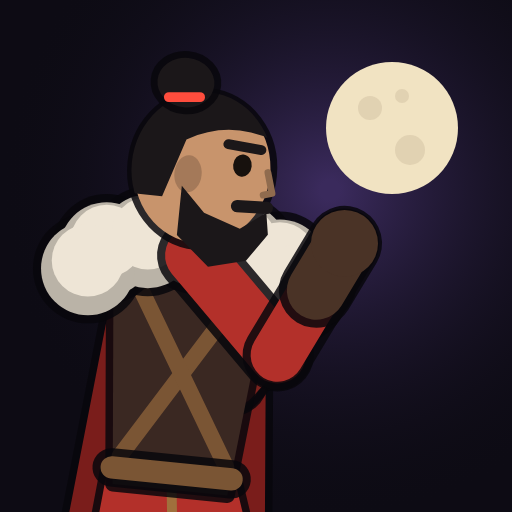
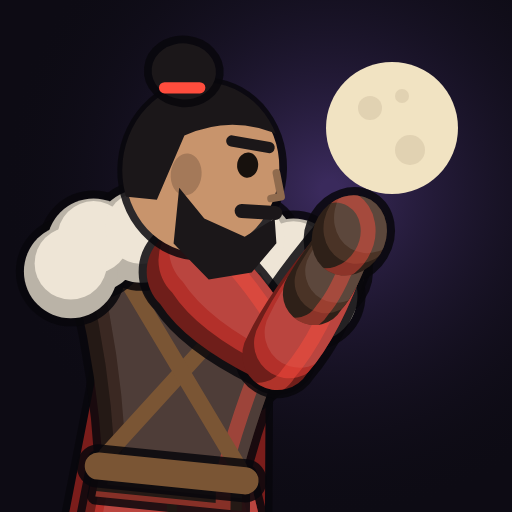
Full illustrated bodies for all fighters
Claude-Session: https://claude.ai/code/session_01UNaMSpEniWJFSZxagqqqPB

Changed region(s): [[0.0312, 0.1562, 0.7812, 1.0], [0.3125, 0.1562, 0.4062, 0.2188]]

diff --git a/index.html b/index.html
@@ -617,7 +617,7 @@ function resolveC(h,cols){
 function lookColor(f){const L=LOOKS[f.def.name]||{};return L.coat||L.hood||L.armor||L.top||L.rock||'#cccccc';}
 function drawHead(c,J,L,C,accent,facing,t,mono,OUT){
  const h=J.head,ux=(h.x-J.neck.x)/HO,uy=(h.y-J.neck.y)/HO,fx=-uy*facing,fy=ux*facing;
- c.save();c.transform(fx,fy,-ux,-uy,h.x,h.y);const sc=(L.bulk||1)>1.3?1.12:1;c.scale(sc,sc);
+ c.save();c.transform(fx,fy,-ux,-uy,h.x,h.y);const sc=(L.bulk||1)>1.3?1.25:1.13;c.scale(sc,sc);
  const E=(x,y,rx,ry,col,o)=>{c.beginPath();c.ellipse(x,y,rx,ry,0,0,7);if(o&&OUT){c.strokeStyle=OUT;c.lineWidth=2.2;c.stroke();}c.fillStyle=col;c.fill();};
  const poly=(pts,col,o)=>{c.beginPath();pts.forEach((q,i)=>i?c.lineTo(q[0],q[1]):c.moveTo(q[0],q[1]));c.closePath();if(o&&OUT){c.strokeStyle=OUT;c.lineWidth=2;c.stroke();}c.fillStyle=col;c.fill();};
  const glowEye=(x,y,r)=>{if(!mono){c.save();c.globalAlpha*=.45;E(x,y,r*2.6,r*2.6,accent);c.restore();}E(x,y,r,r*.8,mono?accent:'#ffffff');c.save();c.globalAlpha*=.85;E(x,y,r*1.2,r,accent);c.restore();};
@@ -707,10 +707,32 @@ function drawStick(c,J,cols,accent,key,facing,alpha,t,speed){
  const fillP=(pts,col,o)=>{path(pts);if(o&&OUT){c.strokeStyle=OUT;c.lineWidth=2.4;c.stroke();}c.fillStyle=col;c.fill();};
  const seg=(a,bb,w,col)=>{if(OUT){c.strokeStyle=OUT;c.lineWidth=w+2.6;line(c,a,bb);}c.strokeStyle=col;c.lineWidth=w;line(c,a,bb);};
  const footY=Math.max(J.ffoot.y,J.bfoot.y);
+ const LX=facing*1.9,LY=-1.9,RIM=!mono&&cols.v!=='shadow';
+ const shade=(build,col,o,rim)=>{build();if(o&&OUT){c.strokeStyle=OUT;c.lineWidth=2.6;c.stroke();}
+  if(mono){c.fillStyle=col;c.fill();return;}
+  c.fillStyle=shadeC(col,.62);c.fill();c.save();build();c.clip();c.translate(LX,LY);build();c.fillStyle=col;c.fill();
+  c.translate(LX*.9,LY*.9);build();c.globalAlpha*=.1;c.fillStyle='#ffffff';c.fill();c.restore();
+  if(rim&&RIM){c.save();build();c.clip();c.translate(-LX*1.6,0);build();c.globalAlpha*=.45;c.strokeStyle=accent;c.lineWidth=2.4;c.stroke();c.restore();}};
+ const limbPath=(a,bb,wa,wb,bul)=>()=>{const ddx=bb.x-a.x,ddy=bb.y-a.y,l=Math.hypot(ddx,ddy)||1,ux=ddx/l,uy=ddy/l,nx=-uy,ny=ux,ra=wa/2,rb=wb/2,rm=Math.max(ra,rb)*bul,m={x:a.x+ddx*.38,y:a.y+ddy*.38},ang=Math.atan2(uy,ux);
+  c.beginPath();c.moveTo(a.x+nx*ra,a.y+ny*ra);c.quadraticCurveTo(m.x+nx*rm*1.08,m.y+ny*rm*1.08,bb.x+nx*rb,bb.y+ny*rb);c.arc(bb.x,bb.y,rb,ang+Math.PI/2,ang-Math.PI/2,true);
+  c.quadraticCurveTo(m.x-nx*rm*.98,m.y-ny*rm*.98,a.x-nx*ra,a.y-ny*ra);c.arc(a.x,a.y,ra,ang-Math.PI/2,ang+Math.PI/2,true);c.closePath();};
+ const limb=(a,bb,wa,wb,col,bul,rim)=>shade(limbPath(a,bb,wa,wb,bul||1.12),col,1,rim);
+ const blob=(q,rx,ry,col,rot,rim)=>shade(()=>{c.beginPath();c.ellipse(q.x,q.y,rx,ry,rot||0,0,7);},col,1,rim);
+ const ol=p=>{if(!OUT)return;p();c.strokeStyle=OUT;c.lineWidth=2.6;c.stroke();};
+ const fistP=(e,h)=>{const ddx=h.x-e.x,ddy=h.y-e.y,l=Math.hypot(ddx,ddy)||1,q={x:h.x+ddx/l*1.5,y:h.y+ddy/l*1.5},r=Math.atan2(ddy,ddx);return()=>{c.beginPath();c.ellipse(q.x,q.y,6.2*b,5.4*b,r,0,7);};};
+ const footP=f=>()=>{c.beginPath();c.moveTo(f.x-facing*4.5*b,f.y-4*b);c.lineTo(f.x+facing*5*b,f.y-4.5*b);c.quadraticCurveTo(f.x+facing*11*b,f.y-3*b,f.x+facing*11*b,f.y+2.5);c.lineTo(f.x-facing*5*b,f.y+2.5);c.closePath();};
+ const arm=(e,h,sl,gl,rim)=>{const U=limbPath(T(.93,0),e,13.5*b,9.5*b,1.14),F=limbPath(e,h,10.5*b,8*b,1.16),Gv=limbPath(lerpP(e,h,.55),h,9.4*b,8.4*b,1.04),Fi=fistP(e,h);
+  ol(U);ol(F);ol(Fi);shade(U,sl,0,rim);shade(F,sl,0,rim);if(gl!==sl)shade(Gv,gl,0,rim);shade(Fi,gl,0,rim);
+  if(L.sleeve==='skin'&&!mono){const q=lerpP(T(.93,0),e,.5);c.strokeStyle=shadeC(C('skin'),.66);c.lineWidth=1.1;c.beginPath();c.arc(q.x,q.y,3*b,0,3);c.stroke();}};
+ const leg=(k,f,pa,bo,rim)=>{const Th=limbPath(Hp,k,16*b,11.5*b,1.12),Sh=limbPath(k,f,12*b,8.5*b,1.2),Bt=limbPath(lerpP(k,f,.5),f,11*b,9*b,1.02),Ft=footP(f);
+  ol(Th);ol(Sh);ol(Bt);ol(Ft);shade(Th,pa,0,rim);shade(Sh,pa,0,rim);shade(Bt,bo,0,rim);shade(Ft,bo,0,rim);};
+ const torsoPath=()=>{const P1=[T(1.02,8*b),T(1.0,16*b),T(.78,16.5*b),T(.45,12.5*b),T(.1,10.5*b),T(-.06,11*b),T(-.06,-11*b),T(.1,-10.5*b),T(.45,-12.5*b),T(.78,-16.5*b),T(1.0,-16*b),T(1.02,-8*b),T(1.12,-5*b),T(1.12,5*b)];
+  c.beginPath();c.moveTo(P1[0].x,P1[0].y);c.quadraticCurveTo(P1[1].x,P1[1].y,P1[2].x,P1[2].y);c.quadraticCurveTo(P1[3].x,P1[3].y,P1[4].x,P1[4].y);c.lineTo(P1[5].x,P1[5].y);c.lineTo(P1[6].x,P1[6].y);c.lineTo(P1[7].x,P1[7].y);
+  c.quadraticCurveTo(P1[8].x,P1[8].y,P1[9].x,P1[9].y);c.quadraticCurveTo(P1[10].x,P1[10].y,P1[11].x,P1[11].y);c.quadraticCurveTo(P1[12].x,P1[12].y,P1[13].x,P1[13].y);c.closePath();};
  let s1=T(.98,11*b),s2=T(.98,-11*b);if((s1.x-s2.x)*facing<0)[s1,s2]=[s2,s1];
  if(L.rock){
   const rk=C('rock'),rd=C('rockD');
-  const R2=(a,bb,w)=>{seg(a,bb,w,rd);c.strokeStyle=rk;c.lineWidth=w*.7;line(c,a,bb);if(!mono){c.save();c.globalAlpha*=.85;c.strokeStyle=accent;c.lineWidth=1.5;const p1=lerpP(a,bb,.25),p2=lerpP(a,bb,.5),p3=lerpP(a,bb,.78);c.beginPath();c.moveTo(p1.x,p1.y);c.lineTo(p2.x+3,p2.y-2);c.lineTo(p3.x-2,p3.y+1);c.stroke();c.restore();}};
+  const R2=(a,bb,w)=>{limb(a,bb,w*1.15,w,rk,1.15,1);if(!mono){c.save();c.globalAlpha*=.85;c.strokeStyle=accent;c.lineWidth=1.5;const p1=lerpP(a,bb,.25),p2=lerpP(a,bb,.5),p3=lerpP(a,bb,.78);c.beginPath();c.moveTo(p1.x,p1.y);c.lineTo(p2.x+3,p2.y-2);c.lineTo(p3.x-2,p3.y+1);c.stroke();c.restore();}};
   R2(N,J.belb,15);R2(J.belb,J.bhand,14);dot(c,J.bhand,9,rd);
   R2(Hp,J.bknee,16);R2(J.bknee,J.bfoot,15);
   R2(Hp,J.fknee,16);R2(J.fknee,J.ffoot,15);
@@ -726,34 +748,33 @@ function drawStick(c,J,cols,accent,key,facing,alpha,t,speed){
   const pts=[s1,s2,{x:s2.x+back*(16+sp*1.4)+w2,y:by}];
   if(L.torn)for(let i=1;i<5;i++){const q=lerpP({x:s2.x+back*(16+sp*1.4)+w2,y:by},{x:s1.x+back*(2+sp*.4)+w1,y:by+4},i/5);pts.push({x:q.x,y:q.y-(i%2?8:0)});}
   pts.push({x:s1.x+back*(2+sp*.4)+w1*.5,y:by+4});fillP(pts,C('cape'),1);}
- seg(N,J.belb,8.5*b,Dk('sleeve'));seg(J.belb,J.bhand,8*b,Dk('sleeve'));seg(lerpP(J.belb,J.bhand,.6),J.bhand,8.6*b,Dk('glove'));dot(c,J.bhand,4.8*b,Dk('glove'));
- seg(Hp,J.bknee,10*b,Dk('pants'));seg(J.bknee,J.bfoot,9*b,Dk('pants'));seg(lerpP(J.bknee,J.bfoot,.52),J.bfoot,10*b,Dk('boot'));dot(c,J.bfoot,5.4*b,Dk('boot'));
- seg(Hp,J.fknee,10.5*b,C('pants'));seg(J.fknee,J.ffoot,9.5*b,C('pants'));seg(lerpP(J.fknee,J.ffoot,.52),J.ffoot,10.5*b,C('boot'));dot(c,J.ffoot,5.8*b,C('boot'));
- if(L.pad)dot(c,J.fknee,5.6*b,C(L.armor?'armor':'boot'));
+ arm(J.belb,J.bhand,Dk('sleeve'),Dk('glove'),0);
+ leg(J.bknee,J.bfoot,Dk('pants'),Dk('boot'),0);
+ leg(J.fknee,J.ffoot,C('pants'),C('boot'),1);
+ if(L.pad)blob(J.fknee,7*b,6.4*b,C(L.armor?'armor':'boot'),0,1);
  if(L.coat&&L.coatLen){
   const hemOf=(K,Fo)=>L.coatLen==='ankle'?lerpP(K,Fo,.8):L.coatLen==='knee'?lerpP(Hp,K,1.14):lerpP(Hp,K,.62);
-  let w1=T(.06,9.6*b),w2=T(.06,-9.6*b),hf=hemOf(J.fknee,J.ffoot),hb=hemOf(J.bknee,J.bfoot);
-  const mx=(hf.x+hb.x)/2;hf={x:hf.x+(hf.x-mx)*.3+facing*4,y:Math.min(hf.y,footY-2)};hb={x:hb.x+(hb.x-mx)*.3-facing*4,y:Math.min(hb.y,footY-2)};
+  let w1=T(.1,11.5*b),w2=T(.1,-11.5*b),hf=hemOf(J.fknee,J.ffoot),hb=hemOf(J.bknee,J.bfoot);
+  const mx=(hf.x+hb.x)/2;hf={x:hf.x+(hf.x-mx)*.35+facing*6,y:Math.min(hf.y,footY-2)};hb={x:hb.x+(hb.x-mx)*.35-facing*6,y:Math.min(hb.y,footY-2)};
   if((w1.x-w2.x)*(hf.x-hb.x)<0)[w1,w2]=[w2,w1];
   const pts=[w1,hf];if(L.torn)for(let i=1;i<6;i++){const q=lerpP(hf,hb,i/6);pts.push({x:q.x,y:Math.min(q.y+(i%2?7:1)+Math.sin(t*.1+i)*1.5,footY)});}
-  pts.push(hb,w2);fillP(pts,C('coat'),1);
+  pts.push(hb,w2);shade(()=>path(pts),C('coat'),1,1);
   if(L.trim&&!mono){c.strokeStyle=C('trim');c.lineWidth=2;c.beginPath();pts.slice(1,-1).forEach((q,i)=>i?c.lineTo(q.x,q.y):c.moveTo(q.x,q.y));c.stroke();const mh=lerpP(hf,hb,.5);c.lineWidth=1.6;line(c,T(.06,0),mh);}
  }
- seg(N,lerpP(N,J.head,.45),6*b,C(L.head==='hood'||L.head==='raven'?'hood':L.head==='hornhelm'?'top':'skin'));
- fillP([T(1,12*b),T(1,-12*b),T(0,-8.6*b),T(0,8.6*b)],C('top'),1);
- if(L.chest==='skin'){fillP([T(.97,5.6*b),T(.97,-5.6*b),T(.3,-2.6*b),T(.3,2.6*b)],C('skin'));if(!mono){c.strokeStyle=shadeC(C('skin'),.72);c.lineWidth=1;line(c,T(.72,0),T(.36,0));line(c,T(.58,-2.5*b),T(.58,2.5*b));}}
- if(L.armor){fillP([T(.94,10.6*b),T(.94,-10.6*b),T(.5,-8.6*b),T(.36,0),T(.5,8.6*b)],C('armor'),1);if(L.armorD&&!mono){c.strokeStyle=C('armorD');c.lineWidth=1.4;line(c,T(.9,0),T(.42,0));line(c,T(.7,-8*b),T(.7,8*b));}}
- if(L.straps&&!mono){c.strokeStyle=C('straps');c.lineWidth=2.6;line(c,T(.96,10*b),T(.12,-8*b));line(c,T(.96,-10*b),T(.12,8*b));}
- seg(T(.07,9*b),T(.07,-9*b),3.6,C(L.sash?'sash':L.straps?'straps':'top')==='#'?'#2a1e16':C(L.sash?'sash':L.straps?'straps':'boot'));
+ limb(N,lerpP(N,J.head,.5),10*b,8*b,C(L.head==='hood'||L.head==='raven'?'hood':L.head==='hornhelm'?'top':'skin'),1);
+ shade(torsoPath,C('top'),1,1);
+ if(L.chest==='skin'){shade(()=>path([T(1.04,7.5*b),T(1.04,-7.5*b),T(.6,-5.5*b),T(.25,-4*b),T(.25,4*b),T(.6,5.5*b)]),C('skin'));if(!mono){const sd=shadeC(C('skin'),.68);c.strokeStyle=sd;c.lineWidth=1.3;c.beginPath();const a=T(.86,-6*b),m=T(.7,0),z=T(.86,6*b);c.moveTo(a.x,a.y);c.quadraticCurveTo(m.x,m.y,z.x,z.y);c.stroke();line(c,T(.7,0),T(.28,0));for(const k of [.58,.46,.35])line(c,T(k,-3.4*b),T(k,3.4*b));}}
+ if(L.armor){shade(()=>path([T(1,14*b),T(1,-14*b),T(.5,-11.5*b),T(.32,0),T(.5,11.5*b)]),C('armor'),1,1);if(L.armorD&&!mono){c.strokeStyle=C('armorD');c.lineWidth=1.4;line(c,T(.9,0),T(.42,0));line(c,T(.7,-8*b),T(.7,8*b));}}
+ if(L.straps&&!mono){c.strokeStyle=C('straps');c.lineWidth=2.6;line(c,T(1,13*b),T(.12,-10*b));line(c,T(1,-13*b),T(.12,10*b));}
+ seg(T(.07,11*b),T(.07,-11*b),4.4,C(L.sash?'sash':L.straps?'straps':'top')==='#'?'#2a1e16':C(L.sash?'sash':L.straps?'straps':'boot'));
  if(L.sash&&!mono){const a=T(.06,-6*b),w2=Math.sin(t*.14)*3;c.strokeStyle=C('sash');c.lineWidth=4;c.beginPath();c.moveTo(a.x,a.y);c.quadraticCurveTo(a.x+back*(8+sp*.5),a.y+10+w2,a.x+back*(12+sp),a.y+24+w2);c.stroke();}
- if(L.fur){const fc=C('fur'),fd=mono?fc:shadeC(fc,.78);const spots=[[.99,13],[.99,-13],[1.04,7],[1.04,-7],[1.07,0],[.9,15.5],[.9,-15.5]];
+ if(L.fur){const fc=C('fur'),fd=mono?fc:shadeC(fc,.78);const spots=[[1.0,15],[1.0,-15],[1.06,8],[1.06,-8],[1.09,0],[.88,18],[.88,-18]];
   if(OUT)for(const[k,s3]of spots)dot(c,T(k,s3*b),8.2*b,OUT);for(const[k,s3]of spots)dot(c,T(k,s3*b),7*b,fd);for(const[k,s3]of spots){const q=T(k,s3*b);dot(c,{x:q.x,y:q.y-1.3},5.4*b,fc);}}
  if(L.scarf){const sc=C('scarf');for(let i=0;i<2;i++){const w3=Math.sin(t*.15+i*1.9),s0={x:N.x-facing*3,y:N.y+3},m={x:s0.x-facing*(13+sp*.5),y:s0.y+7+w3*4+i*4},e2={x:s0.x-facing*(25+sp+i*7),y:s0.y+17+w3*7+i*8};
   c.strokeStyle=sc;c.lineWidth=7-i*2.5;c.beginPath();c.moveTo(s0.x,s0.y);c.quadraticCurveTo(m.x,m.y,e2.x,e2.y);c.stroke();}
-  seg(T(.97,10.5*b),T(.97,-10.5*b),8.5,sc);}
- seg(N,J.felb,8.5*b,C('sleeve'));seg(J.felb,J.fhand,8*b,C('sleeve'));
- if(L.armor&&L.pad){const q=lerpP(N,J.felb,.32);dot(c,q,8.4*b,OUT||C('armor'));dot(c,q,7.2*b,C('armor'));}
- seg(lerpP(J.felb,J.fhand,.58),J.fhand,8.8*b,C('glove'));dot(c,J.fhand,5*b,C('glove'));
+  seg(T(1,12*b),T(1,-12*b),9.5,sc);}
+ arm(J.felb,J.fhand,C('sleeve'),C('glove'),1);
+ if(L.armor&&L.pad)blob(lerpP(T(.93,0),J.felb,.2),10*b,8.5*b,C('armor'),0,1);
  if(L.prop)drawProp(c,L,J,accent,mono,t,OUT);
  drawHead(c,J,L,C,accent,facing,t,mono,OUT);
  c.restore();

diff --git a/sw.js b/sw.js
@@ -1,5 +1,5 @@
 // Ink Duel offline cache. Bump VERSION when you deploy changes.
-const VERSION = 'ink-duel-v8';
+const VERSION = 'ink-duel-v9';
 const CORE = ['./', './index.html', './manifest.webmanifest', './icon-192.png', './icon-512.png', './icon-maskable-512.png', './apple-touch-icon.png', './favicon-32.png'];
 
 self.addEventListener('install', e => {
